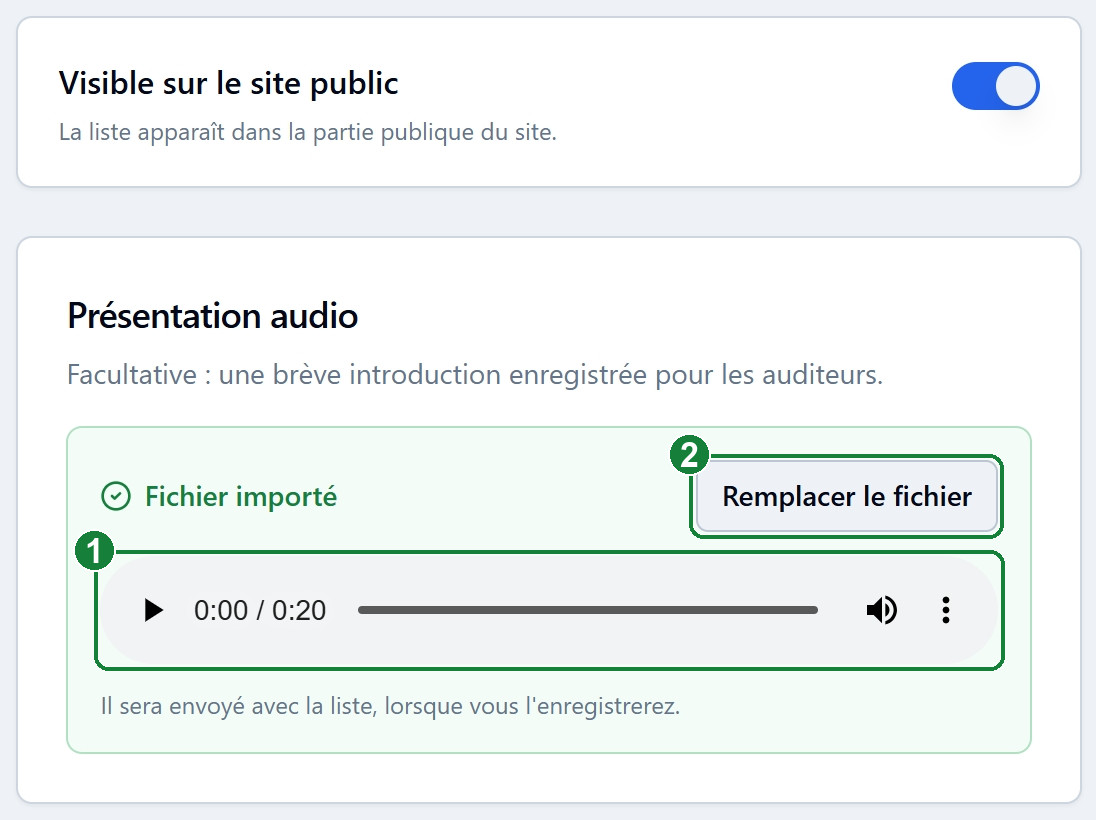
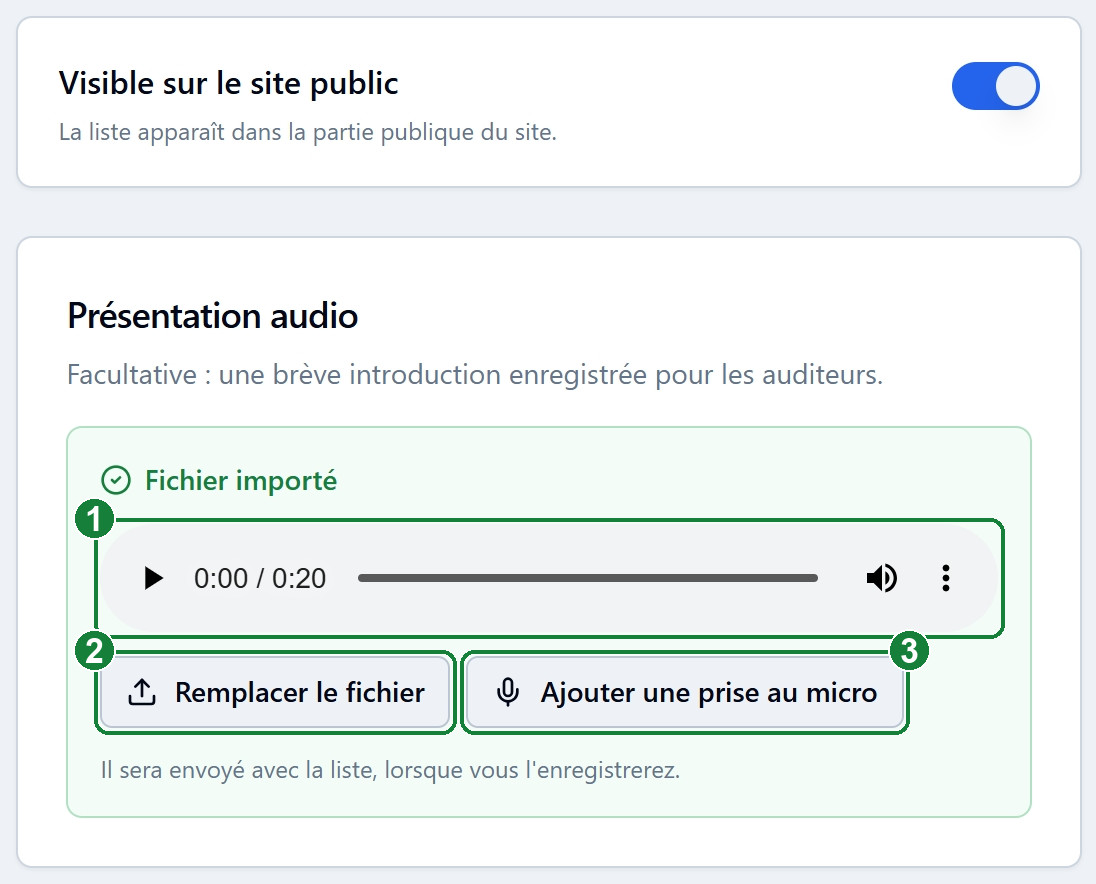
« Remplacer le fichier » ouvre directement le sélecteur de fichier
Après un import, le bouton ramenait à l'enregistreur au lieu de laisser
choisir un autre fichier (il fallait « Jeter tout » puis « Importer un
fichier »). Il ouvre maintenant le sélecteur ; annuler garde le fichier.
L'ajout d'une prise au micro après le fichier devient son propre bouton,
« Ajouter une prise au micro », qui lance l'enregistrement aussitôt — et
laisse le fichier confirmé si le micro est inaccessible.

Mode d'emploi et capture 11 mis à jour.

diff --git a/components/AudioRecorder.tsx b/components/AudioRecorder.tsx
@@ -72,7 +72,8 @@ const AudioRecorder: React.FC<AudioRecorderProps> = ({
         };
     }, []);
 
-    const startRecording = async () => {
+    /** Resolves false when the mic could not be opened (error already shown). */
+    const startRecording = async (): Promise<boolean> => {
         try {
             setError('');
             const stream = await navigator.mediaDevices.getUserMedia({ audio: true });
@@ -100,10 +101,23 @@ const AudioRecorder: React.FC<AudioRecorderProps> = ({
             timerRef.current = setInterval(() => {
                 setRecordingTime(prev => prev + 1);
             }, 1000);
+            return true;
         } catch (err) {
             console.error('Error accessing microphone:', err);
             setError("Impossible d'accéder au micro. Vérifiez que le navigateur est autorisé à l'utiliser.");
+            return false;
         }
+    };
+
+    /**
+     * « Ajouter une prise au micro » on an imported file: reopen the takes
+     * list with the file as its first entry and start recording straight
+     * away, so the admin doesn't have to find « Continuer l'enregistrement »
+     * first. If the mic can't be opened, the file stays confirmed as it was.
+     */
+    const addTakeAfterImport = async () => {
+        setIsConfirmed(false);
+        if (!(await startRecording())) setIsConfirmed(true);
     };
 
     const stopRecording = () => {
@@ -174,9 +188,10 @@ const AudioRecorder: React.FC<AudioRecorderProps> = ({
      * `handleConfirm`: it becomes the one confirmed segment and is handed
      * straight to `onConfirm`, with no re-encoding — unlike a recording,
      * which is always merged down to WAV, an imported file keeps whatever
-     * format (mp3, m4a, wav…) the admin produced it in. It can still be
-     * extended afterwards: clicking « Continuer l'enregistrement » adds a
-     * mic segment behind it, and « Confirmer l'enregistrement » merges both
+     * format (mp3, m4a, wav…) the admin produced it in. « Remplacer le
+     * fichier » comes back here through the same hidden input. It can still
+     * be extended afterwards: « Ajouter une prise au micro » records a mic
+     * segment behind it, and « Confirmer l'enregistrement » merges both
      * through the same WAV path as any other multi-segment recording.
      */
     const handleFileSelected = (file: File) => {
@@ -295,6 +310,10 @@ const AudioRecorder: React.FC<AudioRecorderProps> = ({
 
     return (
         <div className={cn('flex flex-col gap-3', className)}>
+            {/* Mounted in every state: « Importer un fichier » (idle) and
+                « Remplacer le fichier » (imported) both open it. */}
+            {fileInput}
+
             {error && (
                 <Alert variant="destructive">
                     <AlertDescription>{error}</AlertDescription>
@@ -321,7 +340,6 @@ const AudioRecorder: React.FC<AudioRecorderProps> = ({
                             <Upload /> Importer un fichier
                         </Button>
                     </div>
-                    {fileInput}
                 </div>
             )}
 
@@ -415,16 +433,28 @@ const AudioRecorder: React.FC<AudioRecorderProps> = ({
             {/* ── prêt à être envoyé ──────────────────────────────────── */}
             {isConfirmed && finalAudioUrl && (
                 <div className="flex flex-1 flex-col justify-center gap-3 rounded-lg border border-green-600/30 bg-green-500/5 p-4">
-                    <div className="flex flex-wrap items-center justify-between gap-2">
-                        <span className="inline-flex items-center gap-1.5 text-sm font-medium text-green-700 dark:text-green-400">
-                            <CheckCircle2 className="h-4 w-4" aria-hidden="true" />
-                            {source === 'import' ? 'Fichier importé' : 'Enregistrement confirmé'}
-                        </span>
-                        <Button type="button" variant="outline" size="sm" onClick={() => setIsConfirmed(false)}>
-                            {source === 'import' ? 'Remplacer le fichier' : 'Modifier l\'enregistrement'}
-                        </Button>
-                    </div>
+                    <span className="inline-flex items-center gap-1.5 text-sm font-medium text-green-700 dark:text-green-400">
+                        <CheckCircle2 className="h-4 w-4" aria-hidden="true" />
+                        {source === 'import' ? 'Fichier importé' : 'Enregistrement confirmé'}
+                    </span>
                     <audio src={finalAudioUrl} controls className="w-full" />
+                    <div className="flex flex-wrap gap-2">
+                        {source === 'import' ? (
+                            <>
+                                {/* Straight to the file picker; cancelling it keeps the current file. */}
+                                <Button type="button" variant="outline" size="sm" onClick={() => fileInputRef.current?.click()}>
+                                    <Upload /> Remplacer le fichier
+                                </Button>
+                                <Button type="button" variant="outline" size="sm" onClick={addTakeAfterImport}>
+                                    <Mic /> Ajouter une prise au micro
+                                </Button>
+                            </>
+                        ) : (
+                            <Button type="button" variant="outline" size="sm" onClick={() => setIsConfirmed(false)}>
+                                Modifier l&apos;enregistrement
+                            </Button>
+                        )}
+                    </div>
                     <p className="text-xs text-muted-foreground">
                         Il sera envoyé avec la liste, lorsque vous l&apos;enregistrerez.
                     </p>

diff --git a/content/aide/05-liste-de-livres.md b/content/aide/05-liste-de-livres.md
@@ -48,7 +48,11 @@ L'audio n'est envoyé qu'au moment où vous enregistrez la liste.
 
 Si la présentation a déjà été enregistrée (sur un téléphone, un dictaphone ou un ordinateur), inutile de la refaire au micro : cliquez sur « **Importer un fichier** », à côté de « Démarrer l'enregistrement » (repère 5 de la capture 2), puis choisissez le fichier sur votre ordinateur. Tous les formats audio courants sont acceptés (mp3, m4a, wav…), jusqu'à 25 Mo.
 
-Le cadre passe au vert et indique « **Fichier importé** ». (1) Vous pouvez l'écouter pour vérifier que c'est le bon. (2) « **Remplacer le fichier** » rouvre l'enregistreur : « Jeter tout » l'écarte pour en importer un autre, et « Continuer l'enregistrement » ajoute une prise au micro à la suite du fichier.
+Le cadre passe au vert et indique « **Fichier importé** ». Vous pouvez alors :
+
+- (1) l'écouter pour vérifier que c'est le bon ;
+- (2) cliquer sur « **Remplacer le fichier** » pour en choisir un autre. Si vous fermez la fenêtre sans rien choisir, le fichier actuel est conservé ;
+- (3) cliquer sur « **Ajouter une prise au micro** » pour enregistrer une suite au fichier, par exemple la lecture des titres. L'enregistrement démarre aussitôt ; cliquez ensuite sur « Confirmer l'enregistrement » pour réunir le fichier et la prise en un seul enregistrement.
 
 ![Liste de Livres - capture 11](/admin/aide/images/liste-de-livres-11.jpg)
 
